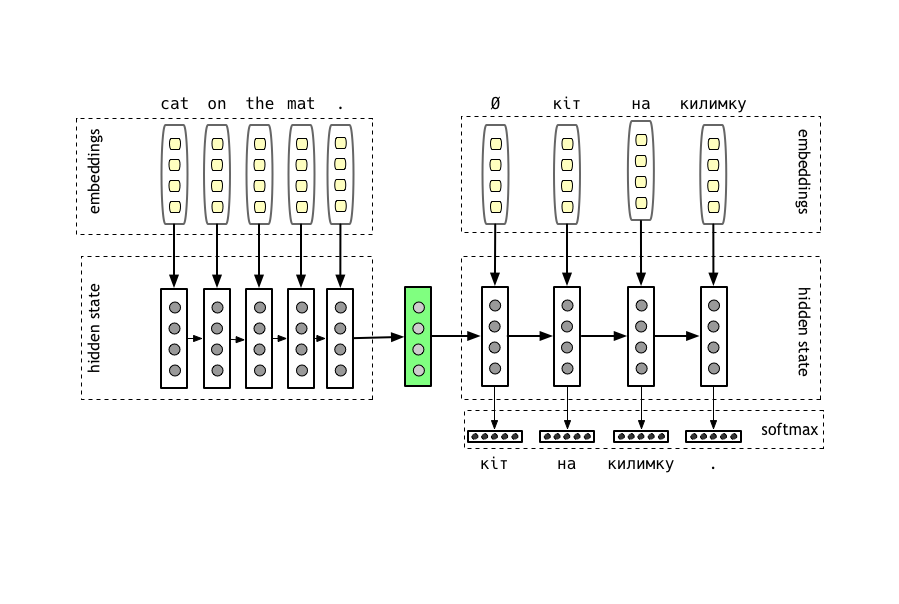
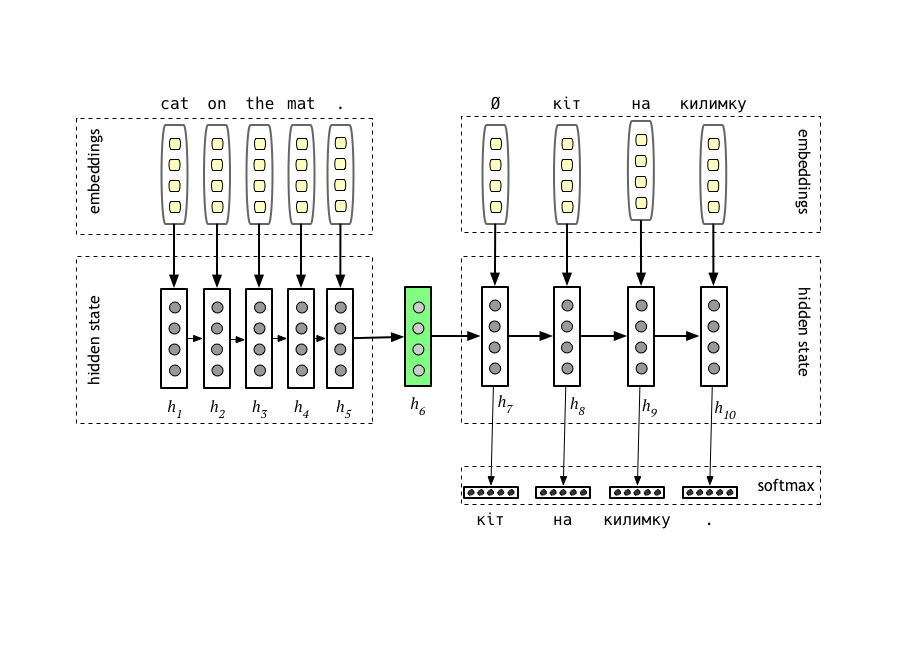
Work on slides

diff --git a/slides/index.html b/slides/index.html
@@ -1,7 +1,7 @@
 <!DOCTYPE html>
 <html>
   <head>
-    <title>Title</title>
+    <title>Neural Attention Mechanism in NLP</title>
     <meta charset="utf-8">
     <style>
       @import url(https://fonts.googleapis.com/css?family=Yanone+Kaffeesatz);
@@ -30,15 +30,26 @@
   <body>
     <script src="https://remarkjs.com/downloads/remark-latest.min.js">
     </script>
+    <script src="https://cdnjs.cloudflare.com/ajax/libs/KaTeX/0.5.1/katex.min.js"></script>
+    <script src="https://cdnjs.cloudflare.com/ajax/libs/KaTeX/0.5.1/contrib/auto-render.min.js"></script>
+    <link rel="stylesheet" href="https://cdnjs.cloudflare.com/ajax/libs/KaTeX/0.5.1/katex.min.css">
     <script>
       remark.macros.scale = function (percentage) {
         var url = this;
         return '<img src="' + url + '" style="width: ' + percentage + '" />';
       };
 
-      var slideshow = remark.create({
-        sourceUrl: "attention.md"
-      });
+      var renderMath = function() {
+        renderMathInElement(document.body, {
+          delimiters: [
+          {left: "$$", right: "$$", display: true},
+          {left: "$", right: "$", display: false},
+          {left: "\\[", right: "\\]", display: true},
+          {left: "\\(", right: "\\)", display: false},
+        ]});
+      }
+      var slideshow = remark.create({sourceUrl: 'attention.md'}, renderMath);
+
     </script>
   </body>
 </html>

diff --git a/slides/attention.md b/slides/attention.md
@@ -85,27 +85,125 @@ network.
 
 ???
 
-Read source sentence one token a time. Often, token is a word,
+Read the source sentence one token a time. Often, token is a word,
 but also can be a character or sub-word.
 
 Compute the source sentence embedding from the sequence of hidden states
-$$h_1 ... h_n$$.
-In the simpliest case (which works reasonably well), just take
+$h_1 ... h_n$.  In the simpliest case (which works reasonably well), just take
+the last state,  $h_5$ in this example. Other options include convolving
+over hidden states, or combining them in a recursive-tree manner.
+
+What matters, is that in the end we have a single vector `h_6` that represents
+(encodes) the whole sentence. This sentence embedding can be somewhat
+similar to the familiar word embeddings. For example, sentences that have
+similar meaning will likely have representations that are close to each other.
+
+Having sentence embedding in hand, we can use it for banch of tasks.
+We can feed it into a classifier to get sentence category, like sentiment.
+For a pair of sentences, we can concatenate the two states and again feed that
+to a classifer, for example, to predict entailment relations.
+
+For encoder-decoder architectures, we use that embedding to generate an
+output sequence. We have another recurrent network (say, LSTM), that starts
+with its state initialized by $h_6$. From that, it generates a new hidden
+state, $h_7$, and predicts the first token by generating a softmaxed
+distribution over the vocubalary. Let's say, we've picked the $argmax(y_7)$,
+everything went well and the first word was "кіт" in our case, just as expected.
+
+On the next step, we feed the predicted $y$ and the previous hidden state
+$h_7$ to generate the probabilty distribution for the second word.
+We continue until we see the end-of-sentence symbol.
+
+That is a general intuition of how neural translation works. In practice,
+of course, it is slighetly more complicated. The architecture has several
+layers. Normally, bi-directional LSTM are used, so that we encode source sentence
+*twice*, the original and the reversed version, and the concatenate the two
+state vectors. On the decoder stage, it is common to do a beam search
+(with a relatevily small beam size of 3 to 15) instead of a greedy search
+that I've described. However, even the simple architecture will be able
+to give more-or-less meaningful results.
+
 
 ---
 
-# Encoder-decoder
+# Encoder-decoder: state bottleneck
 
-![:scale 100%](img/encoder-decoder.png)
+![:scale 100%](img/encoder-decoder-state-bottleneck.png)
 
 State bottleneck: 
+
+???
+
+The idea of representing the whole sentence meaning in a single fixed-sized
+vector is very appealing, but it also means that the decoder must start
+having only a fixed-sized vector at hand. Unfortunately, it doesn't work that
+well with long sentences. Intuitevely, when we try to cramp the long and/or
+complicated sentence into a fixed-sized vector, we will inevitably loose
+details that are important for tasks like translation.
+
+It would be nice if we could return ("attend") to the original sentence many 
+times as we generating an output sequence. That is where attention mechanism
+comes into play.
+
+---
+
+# Attention intuition
+
+![:scale 100%](img/encoder-decoder-highilght-cat.png)
+
+???
+
+What we humans do when translating, is regularaly look onto the source sentence
+a couple words a time.
+
+When I at the start of the sentence, I will look at the word "cat".
+
+---
+
+# Attention intuition
+
+![:scale 100%](img/encoder-decoder-highilght-on.png)
+
+???
+
+Then I move to the next word, and only interested in it (and maybe also in
+some surroinding context as well as in the general context of what this
+sentence is all about).
+
+---
+
+# Attention intuition
+
+![:scale 100%](img/encoder-decoder-highilght-the-mat.png)
+
+???
+
+Finally, I get the last part.
+
+---
+
+
+# Attention intuition: words alignment
+
+TODO: Alignment matrix
+
+???
+
+Turns out, machine translation has known this long before recurrent nets
+revivals. They call it "words alignment", and it can be represented by
+the alignment matrix:
+
+---
+
+
 
 # Content-based neural attention
 
 
-.left-column30[![:scale 80%](img/bahdanau.jpeg)]
+.left-column30
+![:scale 10%](img/bahdanau.jpeg) 
 
-.right-column70
+.right-column70[
 #### Neural Machine Translation by Jointly Learning to Align and Translate
 
 Dzmitry Bahdanau, Kyunghyun Cho, Yoshua Bengio.
@@ -117,9 +215,35 @@ Dzmitry Bahdanau, Kyunghyun Cho, Yoshua Bengio.
 ???
 
 * ICLR 2015 paper
-* Belarusian State University
+* Graduated Belarusian State University
+* 1215 citations so far (and counting) -- every paper about attention cites this.
+* Started the attention boom
+* Simple and effective techinique
 
 ---
+
+# Content-based neural attention
+
+Concatenate hidden state vectors corresponding to the input into a matrix $H$:
+
+$$ H = \left[ \begin{array}{c} h_1 & h_2 & h_3 & ... & h_n \end{array} \right] $$
+
+???
+
+Okay, let's dig into some details.
+
+As before, we start by encoding the source sentence with RNN (often, with a
+bi-directional RNN, but that doesn't really matter). This time we keep around
+hidden state vectors corresponding to the input words. Let's concatenate them
+in a matrix $H$:
+
+$$ H = \[ h_1 h_2 ... h_n \] $$
+
+
+
+---
+
+
 
 # Attention intuition
 
